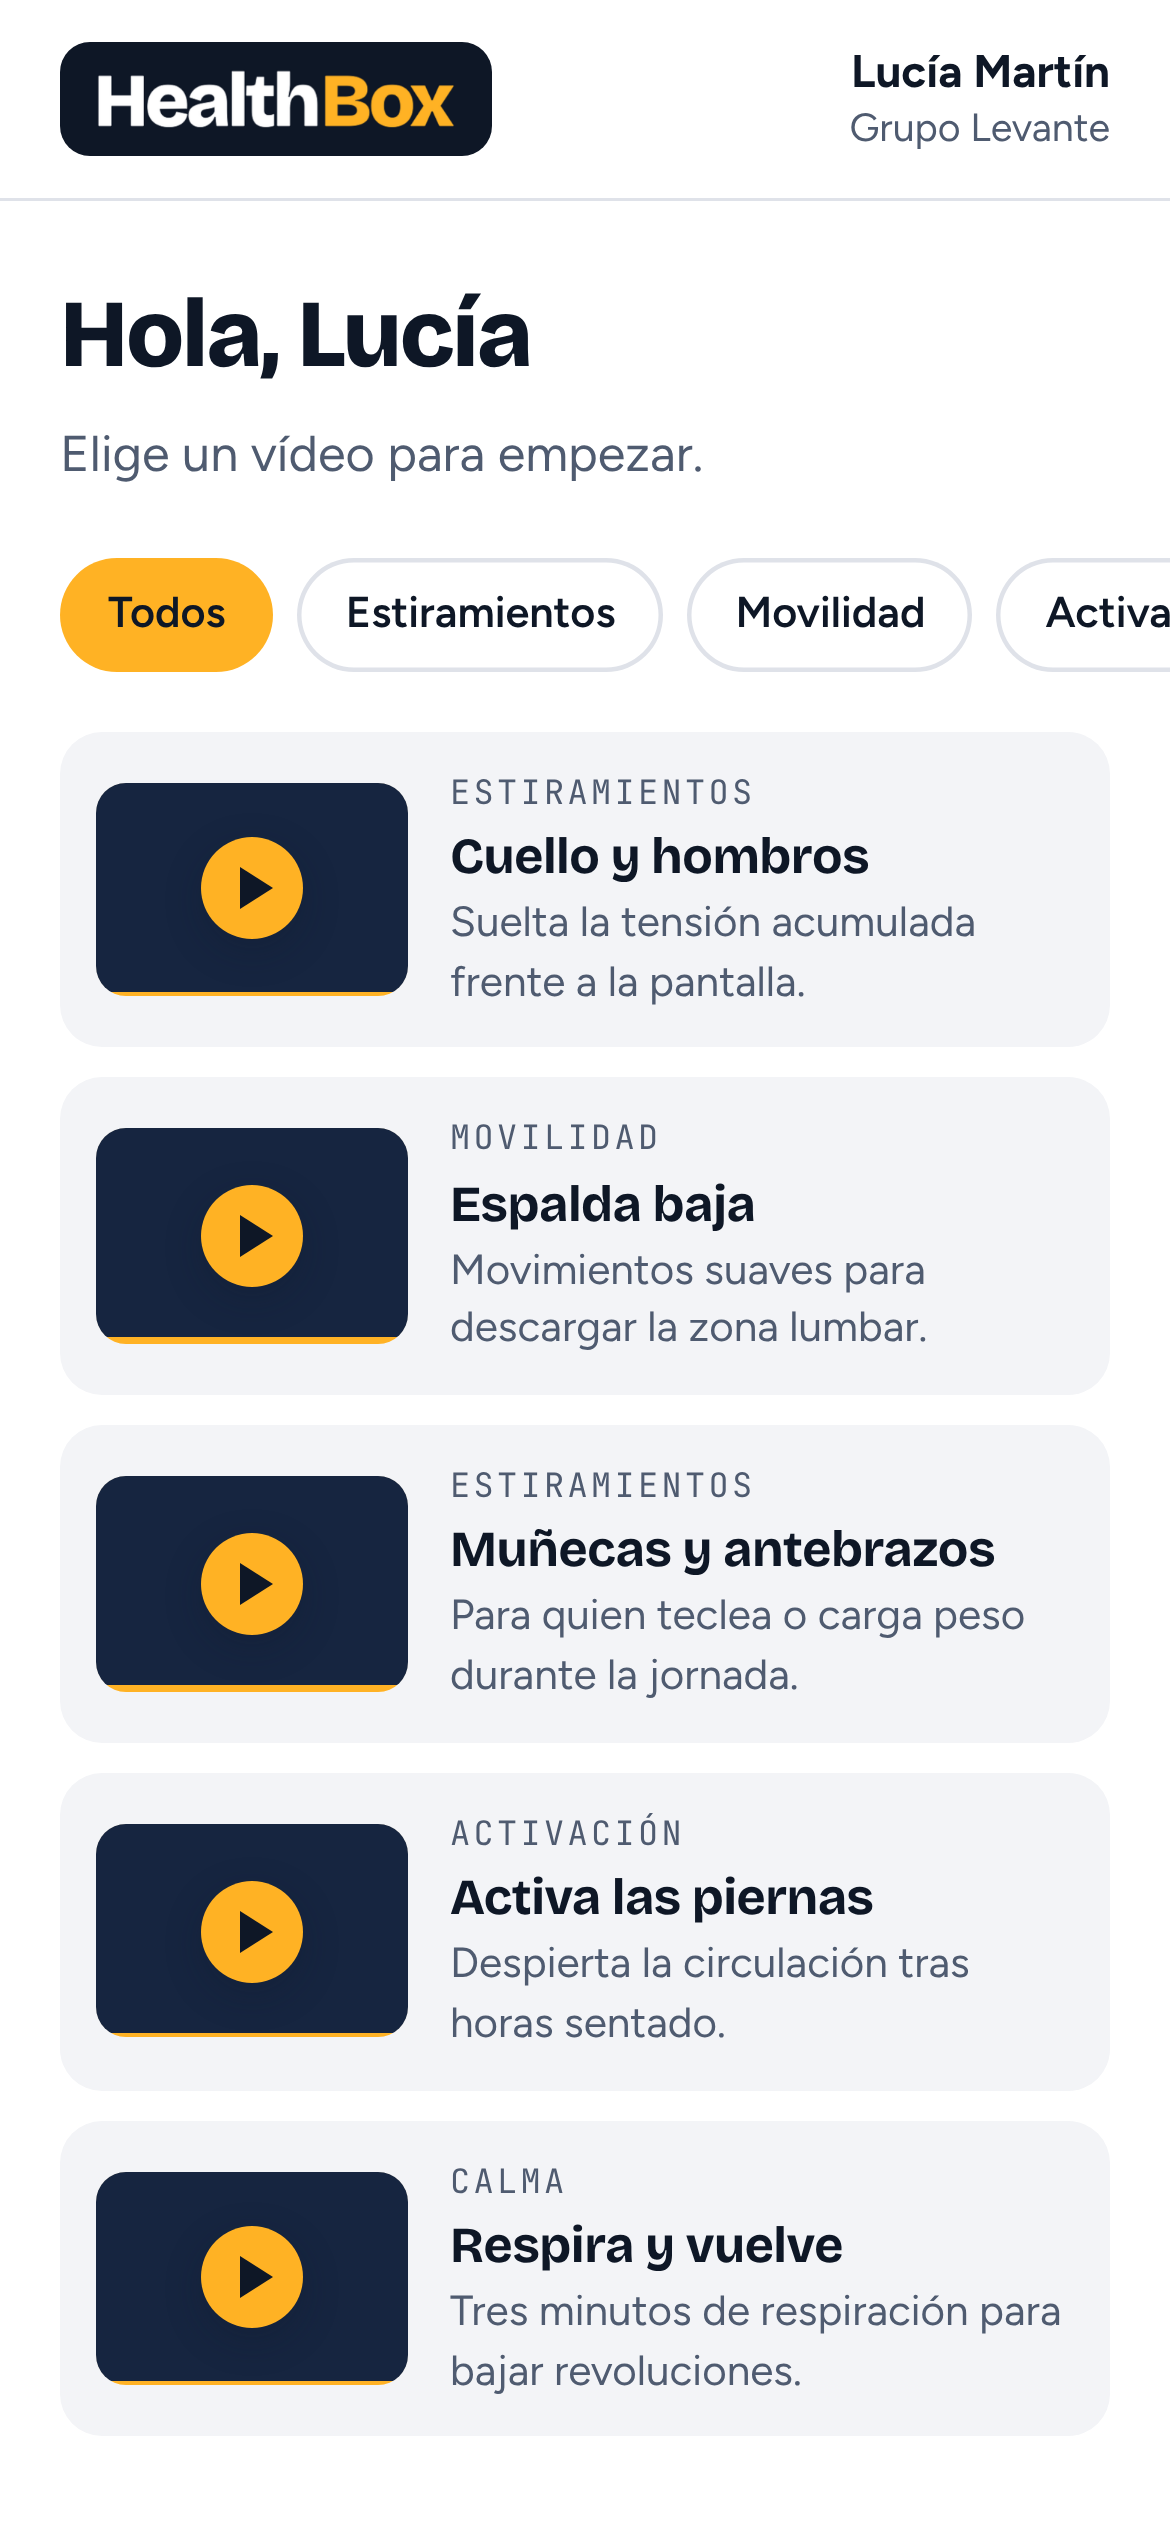
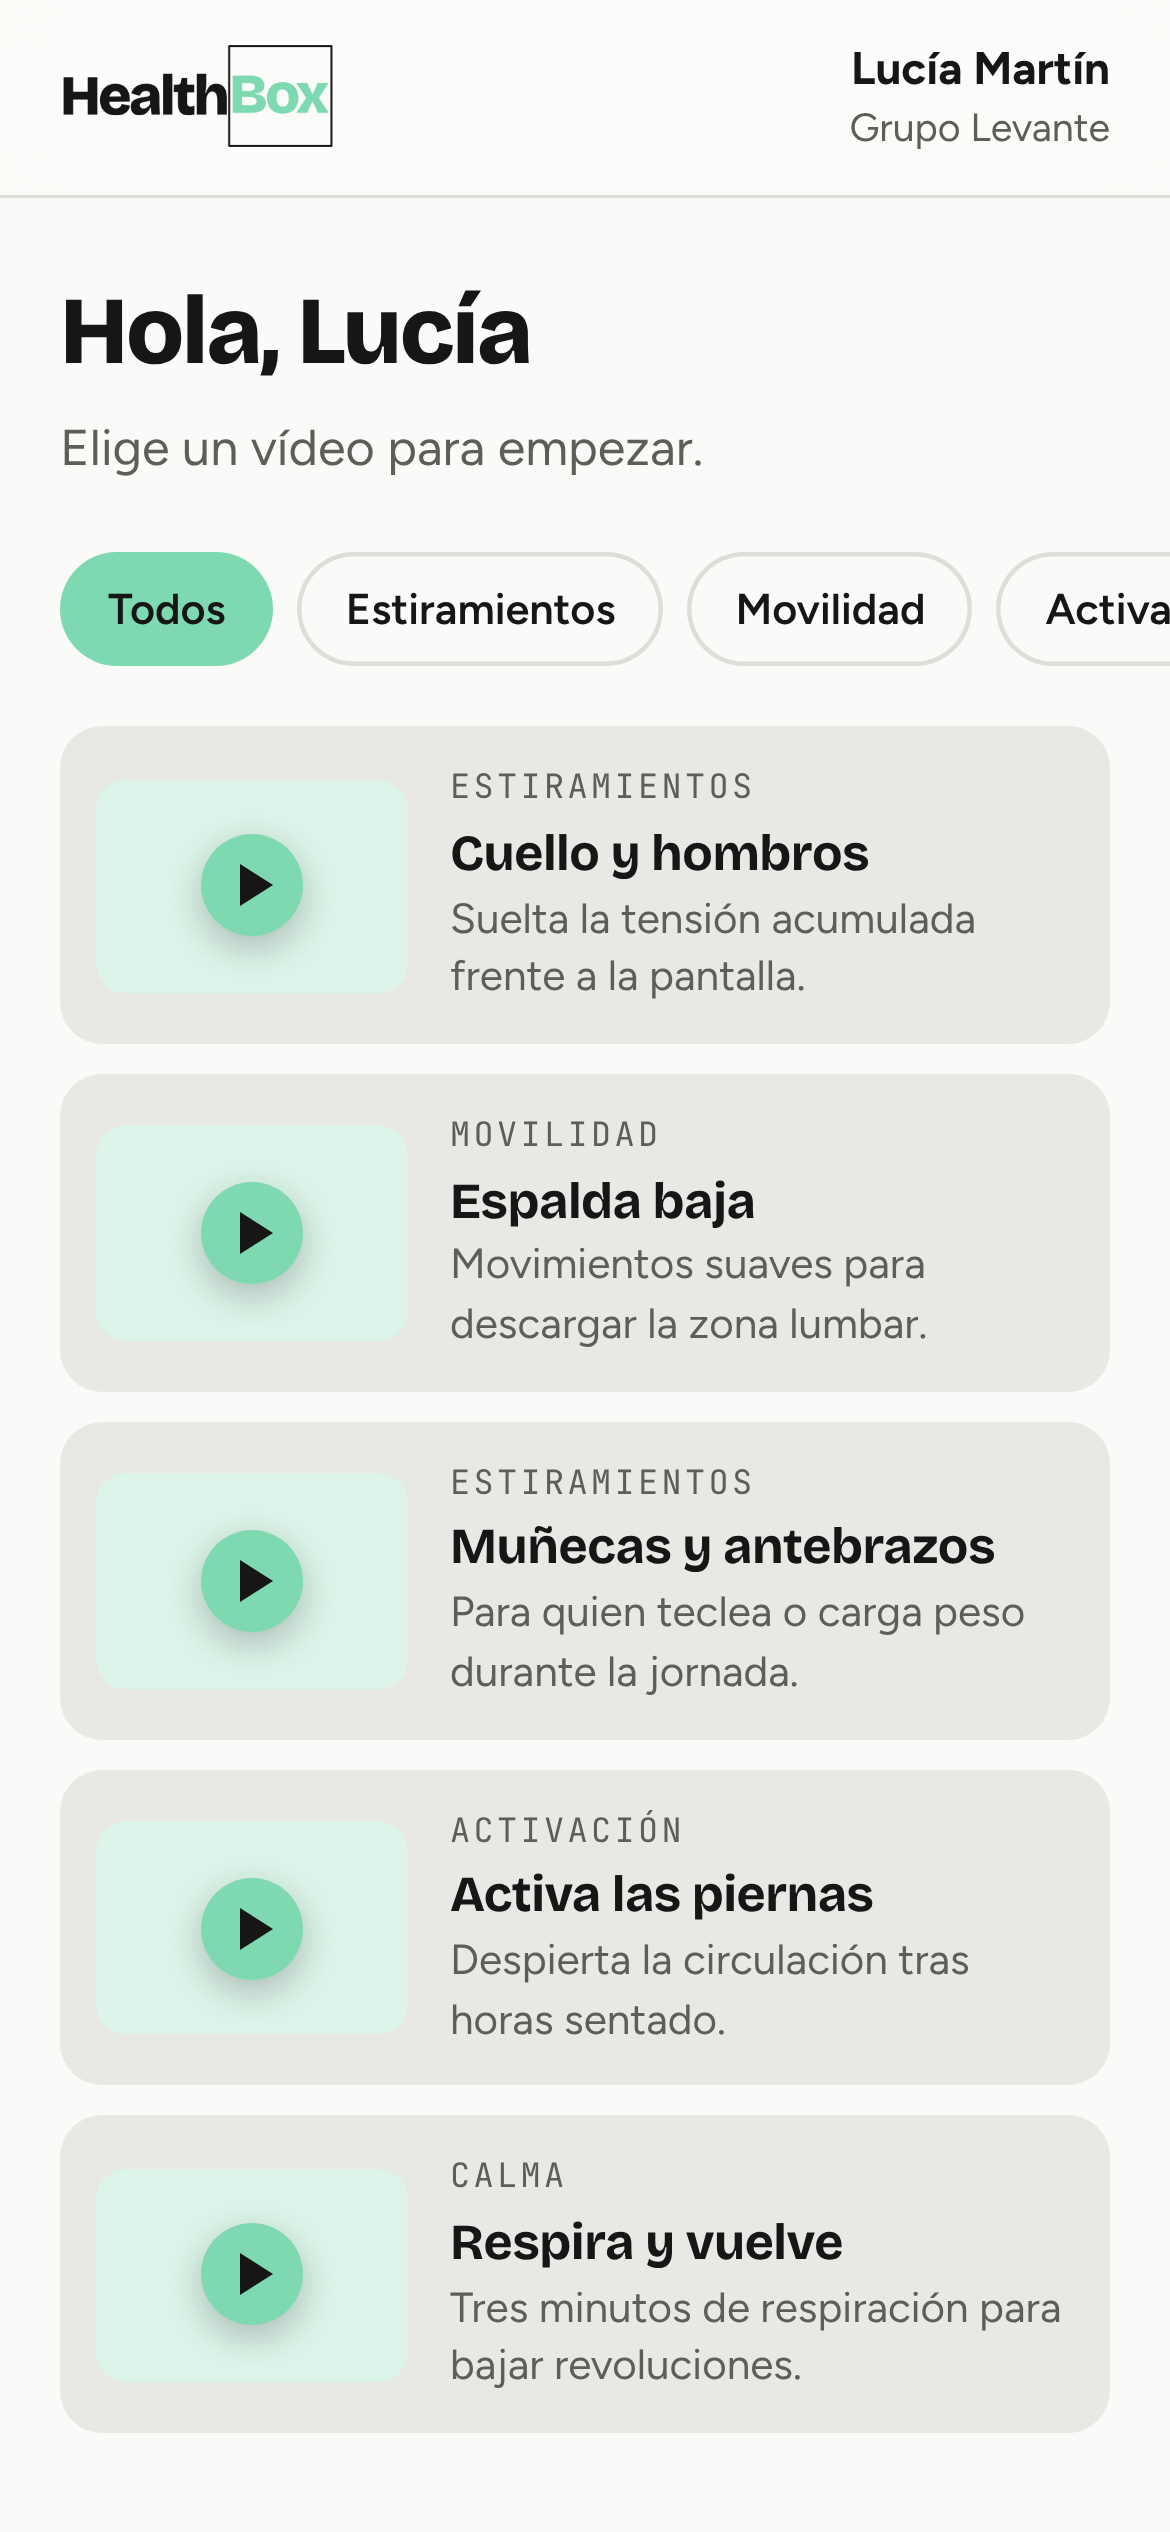
Actualizar las capturas de la app a la paleta noche, piedra y menta
Capturas nuevas sacadas de appHealthBox en modo demostración. La primera
pasa a ser el acceso de usuario («¿Quién eres?») y el botón «Volver a ver»
del vídeo cambia a menta. Mismos nombres y tamaños, imágenes más ligeras.

Claude-Session: https://claude.ai/code/session_01U58TqVXU3gBwNc3BonV6Fh

diff --git a/index.html b/index.html
@@ -362,7 +362,7 @@ footer .wrap { display: flex; flex-wrap: wrap; justify-content: space-between; g
       </div>
       <div>
         <div class="devices" role="group" aria-label="Pantallas de la app HealthBox">
-          <figure class="device portrait p1"><img src="img/pantalla-1-acceso.png" width="1170" height="2532" loading="lazy" alt="Pantalla de acceso: entrar con el nombre y la contraseña de la empresa"></figure>
+          <figure class="device portrait p1"><img src="img/pantalla-1-acceso.png" width="1170" height="2532" loading="lazy" alt="Pantalla de acceso: cada empleado entra con su usuario y contraseña"></figure>
           <figure class="device portrait p3"><img src="img/pantalla-3-completado.png" width="1170" height="2532" loading="lazy" alt="Vídeo «Cuello y hombros» completado y registrado"></figure>
           <figure class="device portrait p2"><img src="img/pantalla-2-videos.png" width="1170" height="2532" loading="lazy" alt="Lista de vídeos de estiramientos filtrable por categoría"></figure>
           <figure class="device landscape"><img src="img/pantalla-4-horizontal.png" width="2532" height="1170" loading="lazy" alt="Vídeo de estiramientos a pantalla completa con el móvil en horizontal"></figure>
